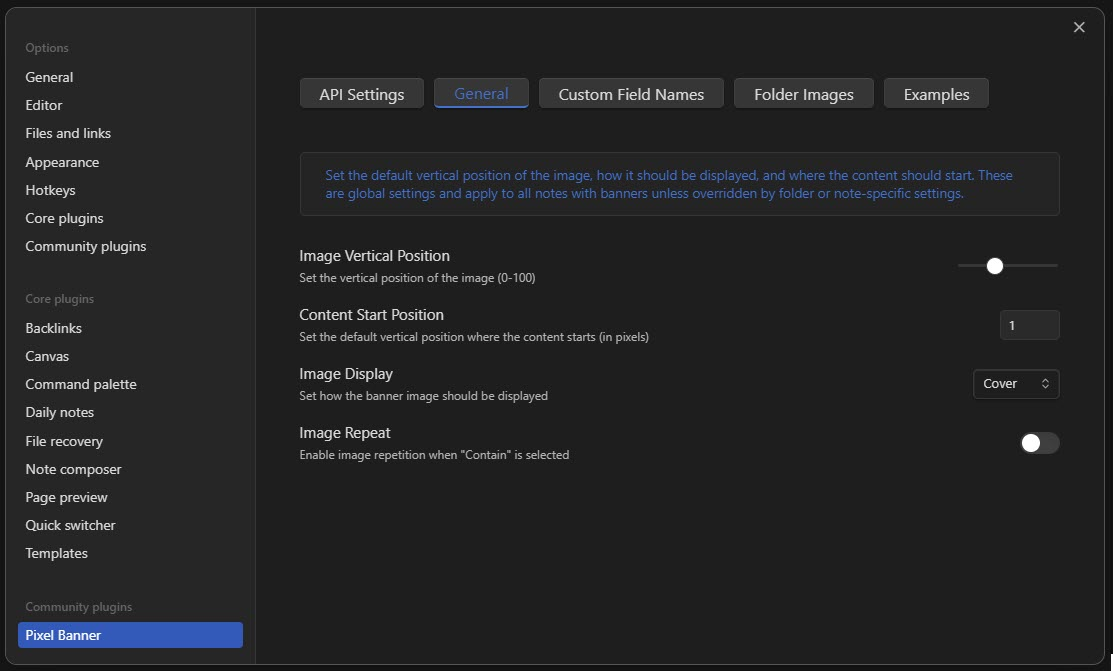
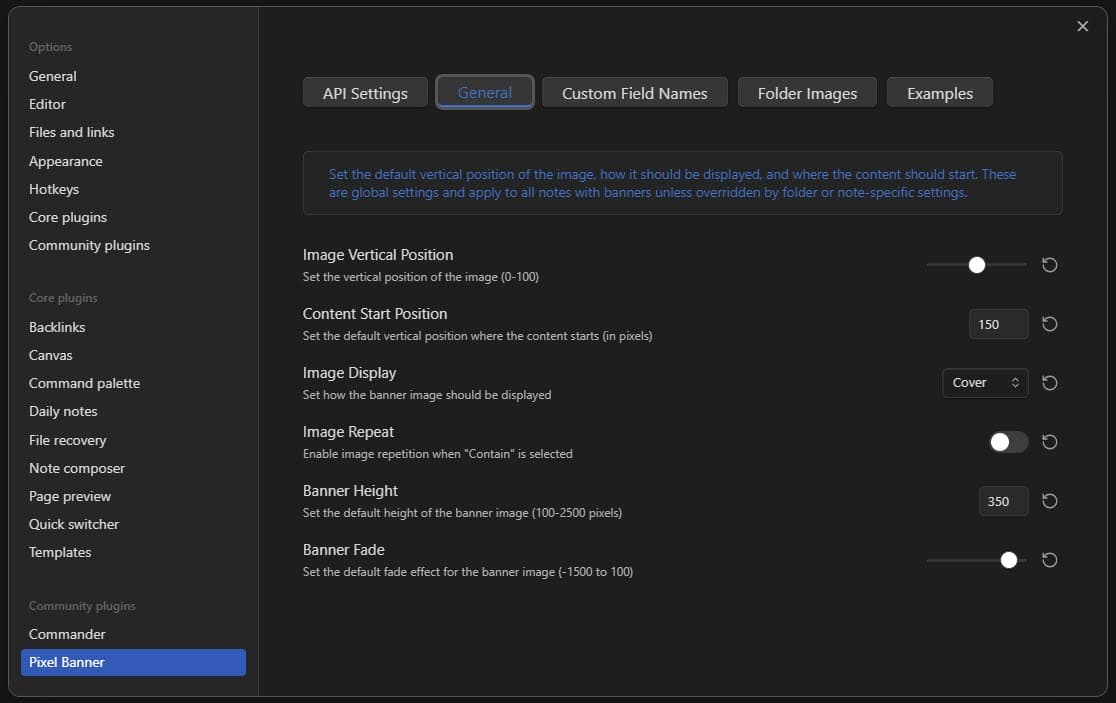
update docs and examples

diff --git a/README.md b/README.md
@@ -14,6 +14,8 @@ Pixel Banner is a plugin for Obsidian that allows you to automatically add beaut
 - Customize image size and orientation
 - Set default keywords for when no specific keyword is provided
 - Adjust vertical position of the banner image globally, per folder, or per note
+- Customize banner height (100-2500 pixels)
+- Control fade transparency (-1500 to 100)
 - Customize frontmatter field names
 - Set a custom start position for the content below the banner image
 - Set the banner image display to cover or contain and adjust wrapping
@@ -38,47 +40,44 @@ Pixel Banner is a plugin for Obsidian that allows you to automatically add beaut
 ```yaml
 ---
 banner: blue turtle
+banner-y: 30
+content-start: 90
+banner-height: 350
+banner-fade: -75
 ---
 
 # Or use a direct URL:
 
 ---
 banner: https://example.com/image.jpg
+banner-height: 400
+banner-fade: -150
 ---
 
 # Or use a local image:
 
 ---
 banner: /path/to/local/image.jpg
+banner-height: 300
+banner-fade: 0
 ---
 
 # Or use an Obsidian internal link:
 
 ---
 banner: [[path/to/internal/image.jpg]]
+banner-height: 250
+banner-fade: -200
 ---
 
-# Specify a custom y-position for the image (0-100) and content start position (in pixels):
-
----
-banner: nature
-banner-y: 30
-content-start: 90
----
-
-# Specify a custom field name for the banner and y-position:
-
----
-my-banner: sunset
-my-y-pos: 60
----
-
-# Specify a custom display mode (cover or contain) and repeat (true or false):
+# Customize display and repeat settings:
 
 ---
 banner: ocean
 banner-display: cover
 banner-repeat: true
+banner-height: 500
+banner-fade: -100
 ---
 ```
 
@@ -89,7 +88,13 @@ You can set default banner images for entire folders:
 1. Go to Settings > Pixel Banner
 2. Scroll down to the "Folder Images" section
 3. Click "Add Folder Image"
-4. Enter the folder path, image URL or keyword, and Y-position
+4. Configure the folder settings:
+   - Folder path
+   - Image URL or keyword
+   - Y-position (0-100)
+   - Banner height (100-2500 pixels)
+   - Fade effect (-1500 to 100)
+   - Display mode and repeat settings
 5. Repeat for additional folders as needed
 
 Folder-specific settings will apply to all notes in that folder (and subfolders) that don't have their own banner specified in the frontmatter.
@@ -103,52 +108,40 @@ In the plugin settings, you can customize:
 - Number of images to fetch (1-50)
 - Default keywords for when no specific keyword is provided
 - Global y-position of the banner image (0-100)
-- Custom field names for banner and Y-position in frontmatter
+- Global banner height (100-2500 pixels, default 350)
+- Global fade effect (-1500 to 100, default -75)
+- Custom field names for all settings
 - Folder-specific default banner images
 
-The global y-position can be overridden on a per-note basis using the `banner-y` frontmatter field (or your custom field name).
+All global settings can be overridden on a per-folder or per-note basis.
 
 ### Custom Field Names
 
-You can customize the frontmatter field names used for each setting, and even define multiple names for each field:
-
-1. Go to Settings > Pixel Banner
-2. Scroll down to the "Custom Field Names" section
-3. Enter your preferred field names for each setting, separated by commas
-4. Use any of the defined field names in your frontmatter
-
-Field names must follow these rules:
-- Only letters, numbers, dashes, and underscores are allowed
-- No spaces within field names (spaces after commas are fine)
-- Names must be unique across all fields
-
-For example, if you set the banner field names to "banner, header-image, cover" and the Y-position field names to "banner-y, y-pos", you could use any 
+You can customize the frontmatter field names used for each setting, and even define multiple names for each field. For example, if you set the banner field names to "banner, header-image, cover" and 
+the Y-position field names to "banner-y, y-pos", you could use any 
 of these variations in your frontmatter:
 
 ```yaml
 ---
 header-image: sunset
+y-pos: 22
+---
+
+---
 banner-y: 60
+y-pos: 60
+---
+
+---
+header-image: sunset
+banner-y: 30
 ---
 ```
 
-### Content Start Position
-
-You can set a custom start position for the content below the banner image:
-
-1. Go to Settings > Pixel Banner
-2. Scroll down to the "Content Start Position" section
-3. Enter a value (in pixels) to adjust where the content starts below the banner
-4. This setting can be overridden on a per-note basis using the `content-start` frontmatter field
-
-For example, to set a custom start position in your frontmatter:
-
-```yaml
----
-banner: nature
-content-start: 200
----
-```
+Field names must follow these rules:
+- Only letters, numbers, dashes, and underscores are allowed
+- No spaces within field names (spaces after commas are fine)
+- Names must be unique across all fields
 
 ## Example Note Screenshot
 

diff --git a/CHANGELOG.md b/CHANGELOG.md
@@ -2,6 +2,25 @@
 
 All notable changes to the Pixel Banner plugin will be documented in this file.
 
+## [2.2.0] - 2024-10-23
+
+### Added
+- Banner Height: Customize the height of banner images (100-2500 pixels; default 350)
+  - Global default setting
+  - Folder-specific override
+  - Per-note override via frontmatter
+- Banner Fade Effect: Control the fade transparency (-1500 to 100)
+  - Global default setting
+  - Folder-specific override
+  - Per-note override via frontmatter
+- New custom field names for banner height and fade effect
+- Updated settings interface with slider controls for fade effect
+
+### Changed
+- Improved settings UI with better organization of controls
+- Enhanced visual feedback for settings changes
+- Updated examples to showcase new banner height and fade options
+
 ## [2.1.0] - 2024-10-22
 
 ### Added

diff --git a/example-vault/pixel-banner-example/🚩 Pixel-Banner.md b/example-vault/pixel-banner-example/🚩 Pixel-Banner.md
@@ -10,6 +10,8 @@ banner: "[[forest.jpg]]"
 ---
 ### *Embedded Notes*
 
+![[llamas]]
+
 ![[📜 Embedded Note with Banner]]
 
 ![[📃 Embedded Note]]

diff --git a/example-vault/pixel-banner-example/notes/llama-notes/llamas.md b/example-vault/pixel-banner-example/notes/llama-notes/llamas.md
@@ -1,0 +1,2 @@
+# 🦙 Llamas
+llamas are fun furry animals, and fun to repeat with tiled images
